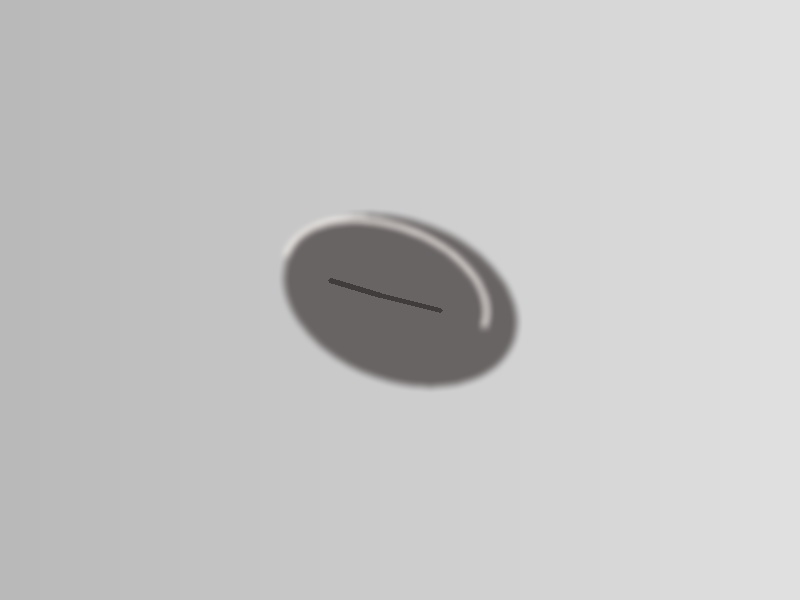
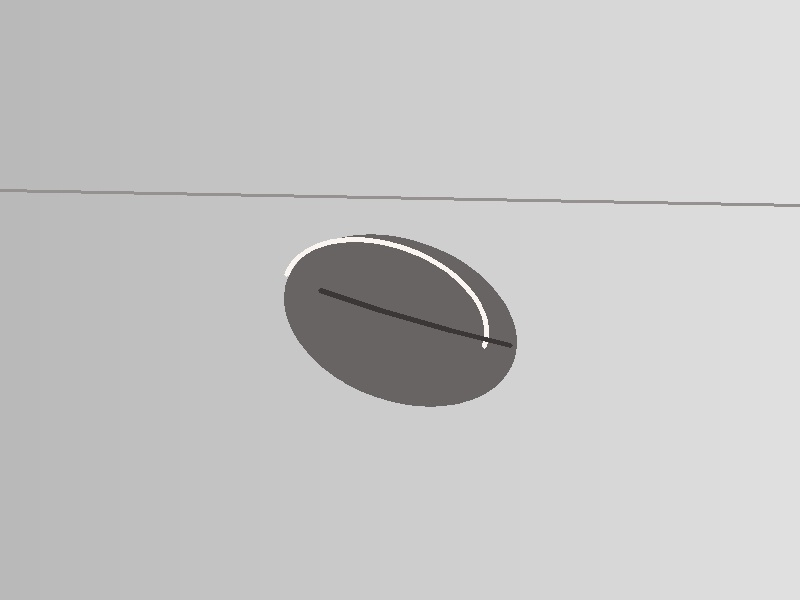
Validate vehicle panel images at upload time to reject non-car photos

Changed region(s): [[0.0, 0.3, 1.0, 0.69]]

diff --git a/app/static/app.js b/app/static/app.js
@@ -37,17 +37,17 @@ function initEventListeners() {
     dropzone.classList.remove('dragover');
   });
 
-  dropzone.addEventListener('drop', (e) => {
+  dropzone.addEventListener('drop', async (e) => {
     e.preventDefault();
     dropzone.classList.remove('dragover');
     if (e.dataTransfer.files && e.dataTransfer.files[0]) {
-      handleFileSelected(e.dataTransfer.files[0]);
+      await handleFileSelected(e.dataTransfer.files[0]);
     }
   });
 
-  fileInput.addEventListener('change', (e) => {
+  fileInput.addEventListener('change', async (e) => {
     if (e.target.files && e.target.files[0]) {
-      handleFileSelected(e.target.files[0]);
+      await handleFileSelected(e.target.files[0]);
     }
   });
 
@@ -103,22 +103,86 @@ function initEventListeners() {
   }
 }
 
-function handleFileSelected(file) {
-  currentFile = file;
-  document.getElementById('file-preview-info').classList.remove('hidden');
-  document.getElementById('file-name-label').textContent = `${file.name} (${(file.size / 1024).toFixed(1)} KB)`;
+async function handleFileSelected(file) {
+  const spinner = document.getElementById('validation-spinner');
+  const errorBanner = document.getElementById('validation-error-banner');
+  const errorMsg = document.getElementById('validation-error-message');
+  const successBanner = document.getElementById('validation-success-banner');
+  const successDetails = document.getElementById('validation-success-details');
+  const previewInfo = document.getElementById('file-preview-info');
+  const displayImg = document.getElementById('img-display');
+  const emptyState = document.getElementById('empty-state');
+  const fileInput = document.getElementById('file-input');
 
-  const reader = new FileReader();
-  reader.onload = (e) => {
-    originalImageSrc = e.target.result;
-    // Set preview in empty state if not yet analyzed
-    const displayImg = document.getElementById('img-display');
-    const emptyState = document.getElementById('empty-state');
-    displayImg.src = originalImageSrc;
-    displayImg.classList.remove('hidden');
-    emptyState.classList.add('hidden');
-  };
-  reader.readAsDataURL(file);
+  // Reset feedback state
+  errorBanner.classList.add('hidden');
+  successBanner.classList.add('hidden');
+  previewInfo.classList.add('hidden');
+  spinner.classList.remove('hidden');
+
+  try {
+    const formData = new FormData();
+    formData.append('file', file);
+
+    const res = await fetch('/api/validate-image', {
+      method: 'POST',
+      body: formData,
+    });
+
+    if (!res.ok) {
+      throw new Error('Image validation pre-check failed on server.');
+    }
+
+    const validation = await res.json();
+
+    if (!validation.is_valid) {
+      // REJECT: Do not load or display image into canvas
+      currentFile = null;
+      originalImageSrc = null;
+      fileInput.value = '';
+      displayImg.classList.add('hidden');
+      displayImg.src = '';
+      emptyState.classList.remove('hidden');
+
+      errorMsg.textContent = validation.rejection_reason || 'Image is not a recognized vehicle panel.';
+      errorBanner.classList.remove('hidden');
+      if (window.lucide) lucide.createIcons();
+      return false;
+    }
+
+    // ACCEPT: Verified vehicle panel
+    currentFile = file;
+    document.getElementById('file-name-label').textContent = `${file.name} (${(file.size / 1024).toFixed(1)} KB)`;
+    previewInfo.classList.remove('hidden');
+
+    if (validation.diagnostics && validation.diagnostics.focus_quality) {
+      successDetails.textContent = `Approved: ${validation.diagnostics.focus_quality} focus, automotive surface verified.`;
+    } else {
+      successDetails.textContent = 'Surface texture, focus, and panel geometry approved for inspection.';
+    }
+    successBanner.classList.remove('hidden');
+
+    const reader = new FileReader();
+    reader.onload = (e) => {
+      originalImageSrc = e.target.result;
+      displayImg.src = originalImageSrc;
+      displayImg.classList.remove('hidden');
+      emptyState.classList.add('hidden');
+    };
+    reader.readAsDataURL(file);
+
+    if (window.lucide) lucide.createIcons();
+    return true;
+  } catch (err) {
+    console.error('Validation error:', err);
+    errorMsg.textContent = `Verification error: ${err.message}`;
+    errorBanner.classList.remove('hidden');
+    currentFile = null;
+    fileInput.value = '';
+    return false;
+  } finally {
+    spinner.classList.add('hidden');
+  }
 }
 
 async function loadSamplePreset(url, panelId, label) {
@@ -128,9 +192,11 @@ async function loadSamplePreset(url, panelId, label) {
     const file = new File([blob], `${label.toLowerCase().replace(/\s+/g, '_')}.jpg`, { type: 'image/jpeg' });
     
     document.getElementById('panel-select').value = panelId;
-    handleFileSelected(file);
-    // Auto-execute inspection for smooth 1-click test experience
-    setTimeout(() => executeInspection(), 100);
+    const isValid = await handleFileSelected(file);
+    if (isValid) {
+      // Auto-execute inspection for smooth 1-click test experience
+      setTimeout(() => executeInspection(), 150);
+    }
   } catch (err) {
     console.error('Failed to load sample image:', err);
     alert('Failed to load sample image.');

diff --git a/app/static/index.html b/app/static/index.html
@@ -142,10 +142,15 @@
 
         <!-- 2. Image Upload Box -->
         <div class="bg-slate-900 rounded-2xl border border-slate-800 p-5 space-y-4 shadow-lg">
-          <h2 class="text-sm font-semibold text-white flex items-center gap-2">
-            <i data-lucide="upload-cloud" class="w-4 h-4 text-sky-400"></i>
-            Upload Vehicle Photograph
-          </h2>
+          <div class="flex items-center justify-between">
+            <h2 class="text-sm font-semibold text-white flex items-center gap-2">
+              <i data-lucide="upload-cloud" class="w-4 h-4 text-sky-400"></i>
+              Upload Vehicle Photograph
+            </h2>
+            <span class="text-[10px] font-semibold text-emerald-400 bg-emerald-500/10 px-2 py-0.5 rounded-full border border-emerald-500/20">
+              Vehicle-Only Verification
+            </span>
+          </div>
           <div id="dropzone" class="border-2 border-dashed border-slate-700 hover:border-sky-500/80 bg-slate-950/50 rounded-xl p-6 text-center cursor-pointer transition">
             <input type="file" id="file-input" accept="image/jpeg,image/png,image/webp" class="hidden">
             <div class="space-y-2">
@@ -155,11 +160,38 @@
               <div class="text-sm font-medium text-slate-300">
                 Drag and drop car photo or <span class="text-sky-400 underline">browse</span>
               </div>
-              <p class="text-xs text-slate-500">Supports JPEG, PNG, WEBP (Max 15MB)</p>
+              <p class="text-xs text-slate-500">Only photos of vehicle body panels and damaged areas are accepted</p>
             </div>
             <div id="file-preview-info" class="mt-3 text-xs text-sky-300 font-medium hidden flex items-center justify-center gap-2">
               <i data-lucide="check-circle" class="w-4 h-4 text-emerald-400"></i>
               <span id="file-name-label">car.jpg</span>
+            </div>
+          </div>
+
+          <!-- Pre-flight Validation Feedback State Banners -->
+          <div id="validation-spinner" class="hidden p-3 rounded-xl bg-sky-950/40 border border-sky-800 text-sky-300 text-xs flex items-center gap-2 animate-fade-in">
+            <div class="w-4 h-4 border-2 border-sky-400 border-t-transparent rounded-full animate-spin"></div>
+            <span>Verifying vehicle panel surface and image clarity...</span>
+          </div>
+
+          <div id="validation-success-banner" class="hidden p-3 rounded-xl bg-emerald-950/30 border border-emerald-800/80 text-emerald-300 text-xs flex items-center gap-2 animate-fade-in">
+            <i data-lucide="shield-check" class="w-4 h-4 text-emerald-400 shrink-0"></i>
+            <div>
+              <span class="font-semibold block text-emerald-200">Vehicle Body Panel Verified</span>
+              <span id="validation-success-details" class="text-[11px] text-emerald-400">Surface texture, focus, and panel geometry approved for inspection.</span>
+            </div>
+          </div>
+
+          <div id="validation-error-banner" class="hidden p-3.5 rounded-xl bg-rose-950/40 border border-rose-800 text-rose-200 text-xs space-y-1.5 animate-fade-in">
+            <div class="flex items-center gap-2 font-semibold text-rose-300">
+              <i data-lucide="alert-triangle" class="w-4 h-4 text-rose-400 shrink-0"></i>
+              <span>Image Rejected — Vehicle Only Policy</span>
+            </div>
+            <p id="validation-error-message" class="text-slate-300 text-[11px] leading-relaxed">
+              This photo cannot be loaded because it is not recognized as a clear vehicle body panel.
+            </p>
+            <div class="text-[11px] text-slate-400 pt-1 border-t border-rose-900/40">
+              Please ensure your photo clearly captures a physical automotive panel (bumper, door, hood, fender) with good lighting and sharp focus. Non-car images (selfies, documents, blur, animals, indoor objects) cannot be loaded.
             </div>
           </div>
         </div>

diff --git a/generate_samples.py b/generate_samples.py
@@ -33,19 +33,23 @@ def generate_samples(output_dir: str = "app/static/sample_images"):
     bumper = cv2.GaussianBlur(bumper, (3, 3), 0.5)
     cv2.imwrite(os.path.join(output_dir, "sample_bumper_scratch.jpg"), bumper)
 
-    # 2. Sample 2: Silver Metallic Door with Concave Dent & Shadow
+    # 2. Sample 2: Silver Metallic Door with Concave Dent & Seam Line
     door = np.zeros((h, w, 3), dtype=np.uint8)
     for x in range(w):
         val = int(185 + (x / w) * 40)
         door[:, x] = [val, val, val]
 
-    dent_center = (400, 300)
+    # Door character body line
+    cv2.line(door, (0, 190), (800, 205), (145, 145, 150), 2)
+
+    # Dent depression
+    dent_center = (400, 320)
     cv2.ellipse(door, dent_center, (120, 80), 20, 0, 360, (100, 100, 105), -1)
     cv2.ellipse(door, (dent_center[0] - 15, dent_center[1] - 10), (105, 65), 20, 180, 360, (240, 245, 250), 3)
-    door = cv2.GaussianBlur(door, (13, 13), 4.0)
 
-    scrape_pts = np.array([[330, 280], [380, 295], [440, 310]], np.int32)
-    cv2.polylines(door, [scrape_pts], isClosed=False, color=(60, 60, 65), thickness=4)
+    # Sharp scrape through the dent
+    scrape_pts = np.array([[320, 290], [380, 310], [450, 330], [510, 345]], np.int32)
+    cv2.polylines(door, [scrape_pts], isClosed=False, color=(55, 55, 60), thickness=3)
     cv2.imwrite(os.path.join(output_dir, "sample_door_dent.jpg"), door)
 
     # 3. Sample 3: Blue Pearl Fender with Scrape and Paint Chip
@@ -56,10 +60,13 @@ def generate_samples(output_dir: str = "app/static/sample_images"):
         r = int(20 + (y / h) * 15)
         fender[y, :] = [b, g, r]
 
+    # Wheel arch curve / seam
+    cv2.ellipse(fender, (400, 600), (320, 260), 0, 180, 360, (90, 30, 15), 3)
+
+    # Paint chip exposing dark steel
     cv2.circle(fender, (380, 260), 45, (45, 45, 50), -1)
     cv2.circle(fender, (430, 290), 30, (55, 55, 60), -1)
     cv2.ellipse(fender, (360, 240), (25, 15), 45, 0, 360, (180, 180, 190), 2)
-    fender = cv2.GaussianBlur(fender, (5, 5), 1.0)
     cv2.imwrite(os.path.join(output_dir, "sample_fender_chip.jpg"), fender)
 
     print("Regenerated clean test samples successfully!")

diff --git a/app/main.py b/app/main.py
@@ -75,6 +75,40 @@ def get_settings():
     }
 
 
+@app.post("/api/validate-image")
+async def validate_vehicle_image(file: UploadFile = File(...)):
+    """
+    Pre-flight validation endpoint to verify that an uploaded photo
+    is a focused, legitimate automotive body panel before loading it.
+    Rejects selfies, paper documents, blur, screenshots, or non-vehicle textures.
+    """
+    if not file.content_type.startswith("image/"):
+        return {
+            "is_valid": False,
+            "rejection_reason": "Uploaded file must be a valid image (JPEG, PNG, WEBP).",
+            "blur_score": 0.0,
+            "skin_tone_ratio": 0.0,
+            "surface_smoothness_ratio": 0.0,
+            "brightness_mean": 0.0,
+            "diagnostics": {},
+        }
+
+    contents = await file.read()
+    if len(contents) == 0:
+        return {
+            "is_valid": False,
+            "rejection_reason": "Empty image file received.",
+            "blur_score": 0.0,
+            "skin_tone_ratio": 0.0,
+            "surface_smoothness_ratio": 0.0,
+            "brightness_mean": 0.0,
+            "diagnostics": {},
+        }
+
+    result = VehicleImageValidator.validate(contents)
+    return result.model_dump()
+
+
 @app.post("/api/analyze")
 async def analyze_vehicle_damage(
     file: UploadFile = File(...),

diff --git a/tests/test_validator.py b/tests/test_validator.py
@@ -49,3 +49,26 @@ def test_reject_blank_or_dark_image():
     result = VehicleImageValidator.validate(bytes(buf))
     assert result.is_valid is False
     assert "dark" in result.rejection_reason.lower()
+
+
+def test_reject_document_or_invoice():
+    """Paper documents, white sheets, and text invoices should be rejected."""
+    doc_img = np.full((400, 400, 3), 245, dtype=np.uint8)
+    # Add a few dark lines like text on white paper
+    cv2.line(doc_img, (50, 100), (350, 100), (20, 20, 20), 2)
+    cv2.line(doc_img, (50, 150), (350, 150), (20, 20, 20), 2)
+    _, buf = cv2.imencode(".jpg", doc_img)
+
+    result = VehicleImageValidator.validate(bytes(buf))
+    assert result.is_valid is False
+    assert "document" in result.rejection_reason.lower() or "invoice" in result.rejection_reason.lower()
+
+
+def test_reject_undersized_image():
+    """Low resolution images below minimum dimensions should be rejected."""
+    tiny_img = np.full((120, 120, 3), 128, dtype=np.uint8)
+    _, buf = cv2.imencode(".jpg", tiny_img)
+
+    result = VehicleImageValidator.validate(bytes(buf))
+    assert result.is_valid is False
+    assert "resolution" in result.rejection_reason.lower()
